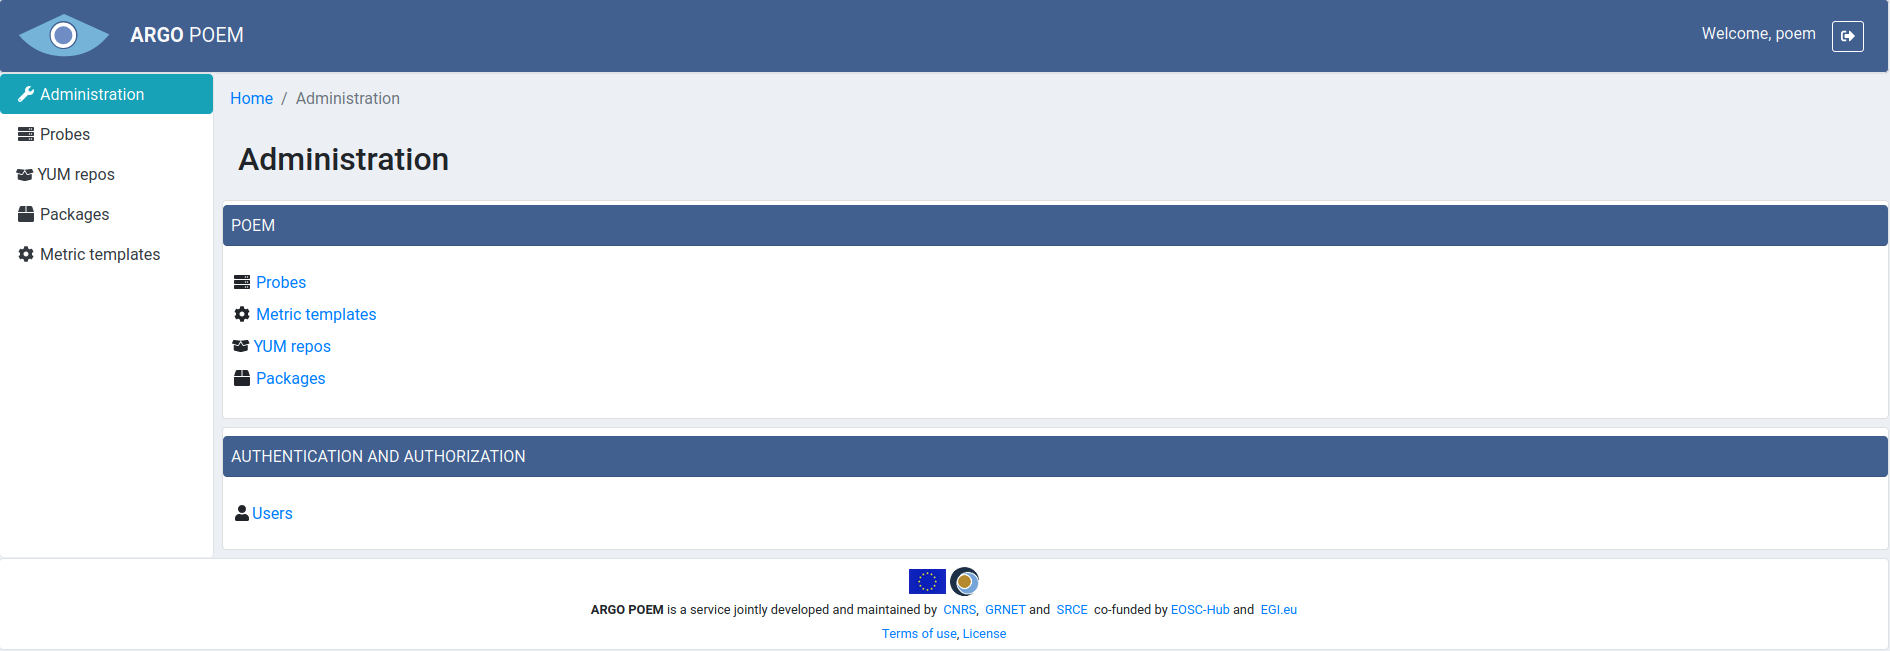
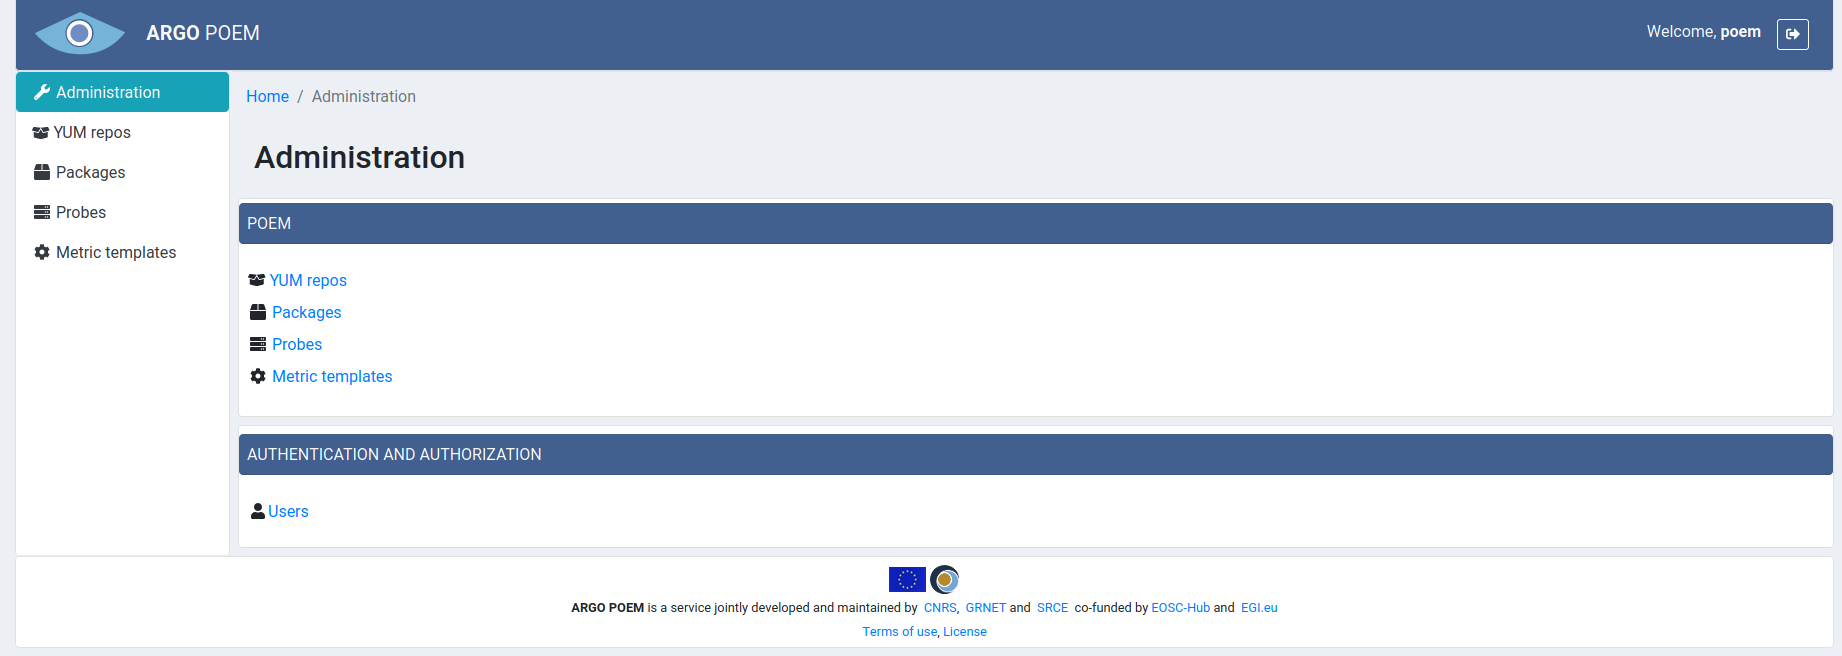
refactored text and added newer figure

diff --git a/doc/v1/docs/superadmin_administration.md b/doc/v1/docs/superadmin_administration.md
@@ -10,7 +10,7 @@ Administration page is only available to authenticated users with superuser stat
 
 ### POEM
 
-The pages in the first section (Probes, Metric templates, YUM repos and Packages) are available to all users from the menu on the left side. 
+The pages in the first section (**YUM repos**, **Packages**, **Probes**, and **Metric templates**) are also available to all users from the menu on the left side. 
 
 ### Authentication and Authorization Page
 
